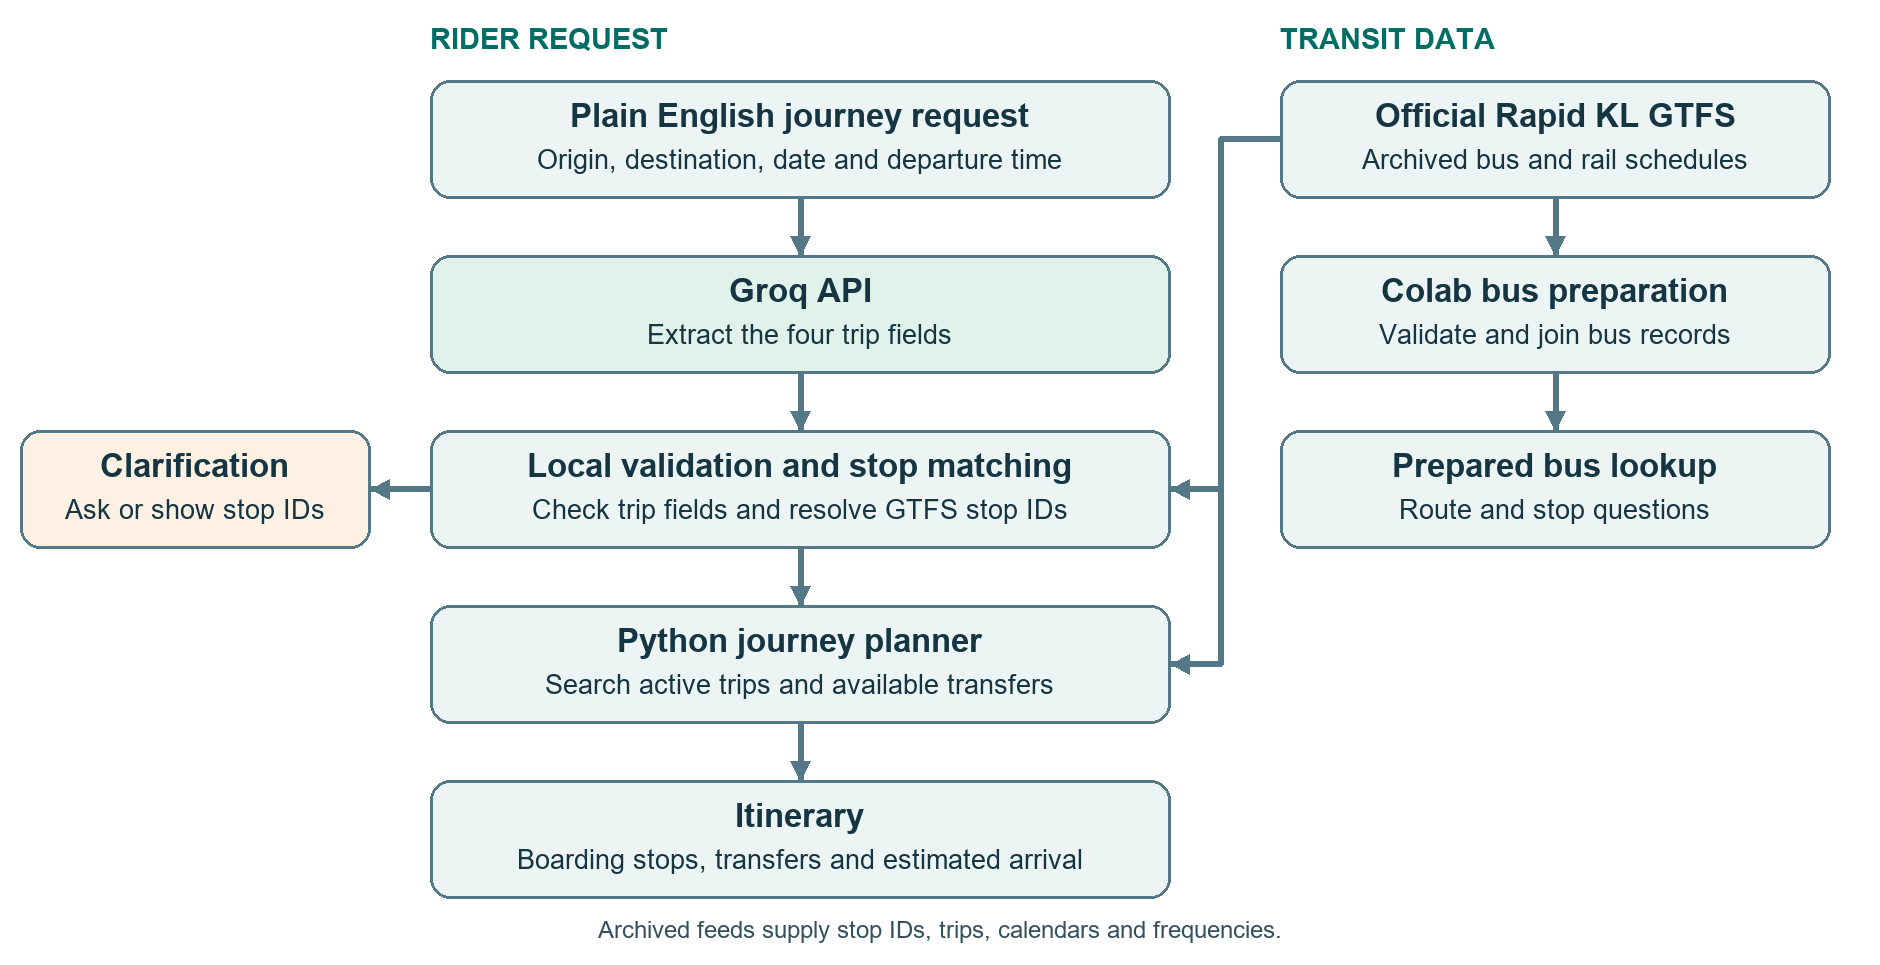
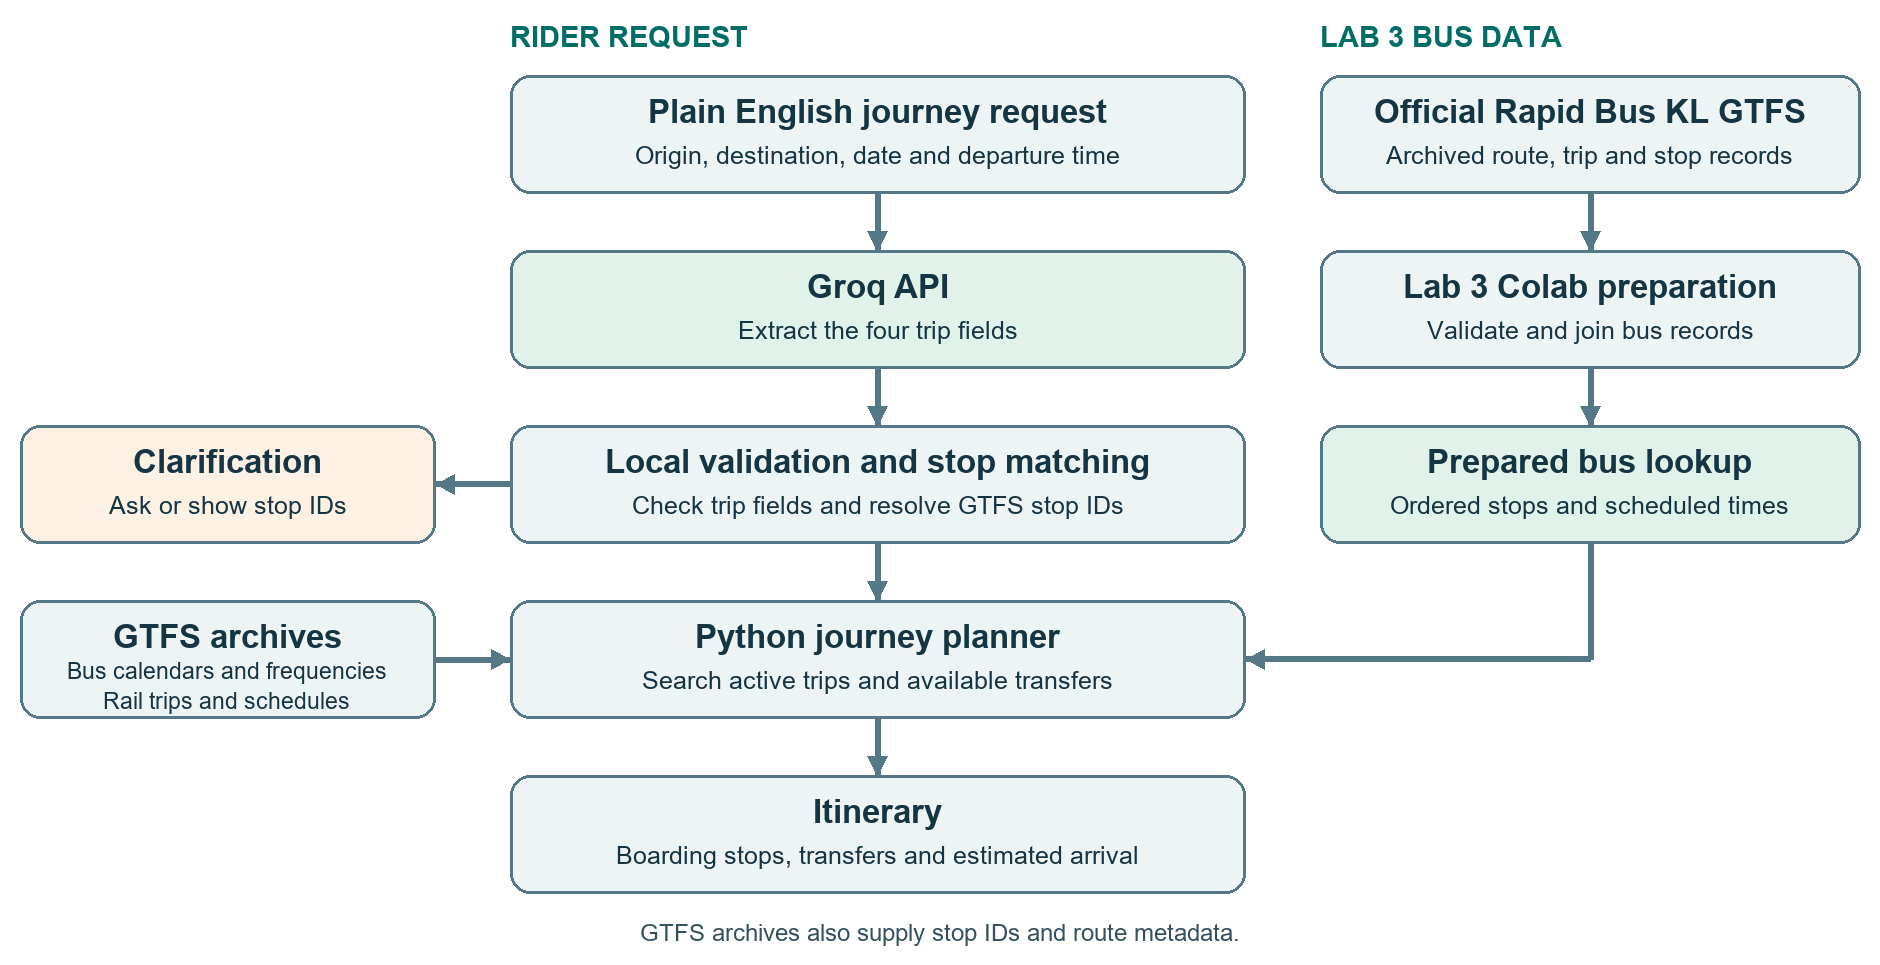
Route bus journeys using the Lab 3 lookup

Changed region(s): [[0.0, 0.0, 1.0, 0.9948], [0.9872, 0.2798, 1.0, 0.3731], [0.2468, 0.8083, 0.2777, 0.8394]]

diff --git a/journey-planner/plan.py b/journey-planner/plan.py
@@ -2,6 +2,7 @@
 
 import argparse
 import csv
+import gzip
 from collections import defaultdict
 from dataclasses import dataclass
 from datetime import date, datetime, timedelta
@@ -14,6 +15,8 @@ DAYS = ("monday", "tuesday", "wednesday", "thursday", "friday", "saturday", "sun
 PROJECT = Path(__file__).resolve().parent
 REPO_DATA = PROJECT.parent / "data" / "raw"
 DATA = REPO_DATA if REPO_DATA.is_dir() else PROJECT / "data"
+REPO_LOOKUP = PROJECT.parent / "data" / "processed" / "route_stop_lookup.csv.gz"
+BUS_LOOKUP = REPO_LOOKUP if REPO_LOOKUP.is_file() else PROJECT / "data" / REPO_LOOKUP.name
 
 
 def seconds(value):
@@ -41,7 +44,7 @@ class Walk:
     duration: int
 
 
-def load_feed(path, prefix, travel_date):
+def load_feed(path, prefix, travel_date, lookup_path=None):
     with ZipFile(path) as archive:
         def rows(name):
             if name not in archive.namelist():
@@ -54,13 +57,11 @@ def load_feed(path, prefix, travel_date):
         trips = rows("trips.txt")
         calendars = rows("calendar.txt")
         exceptions = rows("calendar_dates.txt")
-        stop_times = defaultdict(list)
-        for r in rows("stop_times.txt"):
-            stop_times[r["trip_id"]].append((
-                int(r["stop_sequence"]), f"{prefix}:{r['stop_id']}",
-                seconds(r["arrival_time"]), seconds(r["departure_time"]),
-                r.get("pickup_type") != "1", r.get("drop_off_type") != "1",
-            ))
+        if lookup_path is None:
+            trip_stops = rows("stop_times.txt")
+        else:
+            with gzip.open(lookup_path, "rt", encoding="utf-8-sig", newline="") as lookup:
+                trip_stops = list(csv.DictReader(lookup))
         frequencies = defaultdict(list)
         for r in rows("frequencies.txt"):
             headway = int(r["headway_secs"])
@@ -69,6 +70,24 @@ def load_feed(path, prefix, travel_date):
                 raise ValueError(f"Invalid frequency window for {r['trip_id']}")
             frequencies[r["trip_id"]].append((start, end, headway, r.get("exact_times") != "1"))
 
+    stop_times = defaultdict(list)
+    trip_index = {r["trip_id"]: r for r in trips}
+    for row in trip_stops:
+        trip_id = row["trip_id"]
+        stop_id = f"{prefix}:{row['stop_id']}"
+        if lookup_path is not None:
+            trip = trip_index.get(trip_id)
+            if (trip is None or row["route_id"] != trip["route_id"]
+                    or row["service_id"] != trip["service_id"]
+                    or row["stop_name"] != stops.get(stop_id)):
+                raise ValueError(f"Lab 3 lookup and bus GTFS archive disagree on {trip_id} / {stop_id}.")
+        stop_times[trip_id].append((
+            int(row["stop_sequence"]), stop_id,
+            seconds(row["arrival_time"]), seconds(row["departure_time"]),
+            row.get("pickup_type") != "1", row.get("drop_off_type") != "1",
+        ))
+    if lookup_path is not None and not stop_times:
+        raise ValueError("The Lab 3 bus lookup contains no stop-time rows.")
     for times in stop_times.values():
         times.sort()
     patterns = []
@@ -196,7 +215,7 @@ def main():
         departure = seconds(args.time + ":00")
         if departure >= DAY:
             raise ValueError("Enter a departure time between 00:00 and 23:59.")
-        bus, bus_patterns = load_feed(DATA / "rapid-bus-kl-gtfs.zip", "bus", args.date)
+        bus, bus_patterns = load_feed(DATA / "rapid-bus-kl-gtfs.zip", "bus", args.date, BUS_LOOKUP)
         rail, rail_patterns = load_feed(DATA / "rapid-rail-kl-gtfs.zip", "rail", args.date)
         stops = bus | rail
         def choose(query, label):

diff --git a/journey-planner/README.md b/journey-planner/README.md
@@ -28,9 +28,9 @@ Use a specific stop code or the suggested stop ID if a name is ambiguous. The de
 
 ## Transfers and estimates
 
-![V1 journey planning architecture](v1-architecture.png)
+![V1 architecture showing the Lab 3 bus lookup feeding the journey planner](v1-architecture.png)
 
-Groq extracts the trip fields. The local planner resolves stop names and searches the archived bus and rail GTFS schedules, including calendars and frequencies. The Colab-prepared bus lookup supports route and stop questions.
+Groq extracts the trip fields. For bus journeys, the local planner reads the Lab 3 Colab lookup for the ordered stops and their arrival and departure times. The matching bus GTFS archive supplies the service calendars, departure frequencies and route metadata. Rail journeys use the rail GTFS archive.
 
 The planner can transfer between rides that share a stop ID within the same feed. To add a verified walking connection, pass `--transfers path/to/links.csv`. Use these columns: `from_stop_id,to_stop_id,walk_seconds,evidence`. Each link is directional. Use the prefixed IDs reported by the planner, record the source for the connection and add the reverse direction separately if it has been verified.
 
@@ -40,4 +40,4 @@ Frequency-based services use a regular departure grid calculated from the GTFS h
 
 ## Data
 
-Prasarana Malaysia Berhad via the Malaysia Open Data GTFS Static API, archived on 18 November 2026, CC BY 4.0. The planner uses the repository's existing archives in `data/raw/`. The standalone local copy uses `journey-planner/data/`. [Official GTFS documentation](https://developer.data.gov.my/realtime-api/gtfs-static) · [Project archive](https://github.com/muhdilham1602-max/ai-engineering-RapidKLAssistant/tree/48266e047d4ffe10c13f9a4e36a443919f0300de/data/raw)
+Prasarana Malaysia Berhad via the Malaysia Open Data GTFS Static API, archived on 18 November 2026, CC BY 4.0. Use the matching GTFS archives in `data/raw/` and the Lab 3 lookup at `data/processed/route_stop_lookup.csv.gz`. The standalone local copy keeps all three files in `journey-planner/data/`. [Official GTFS documentation](https://developer.data.gov.my/realtime-api/gtfs-static) · [Project archive](https://github.com/muhdilham1602-max/ai-engineering-RapidKLAssistant/tree/48266e047d4ffe10c13f9a4e36a443919f0300de/data/raw)
